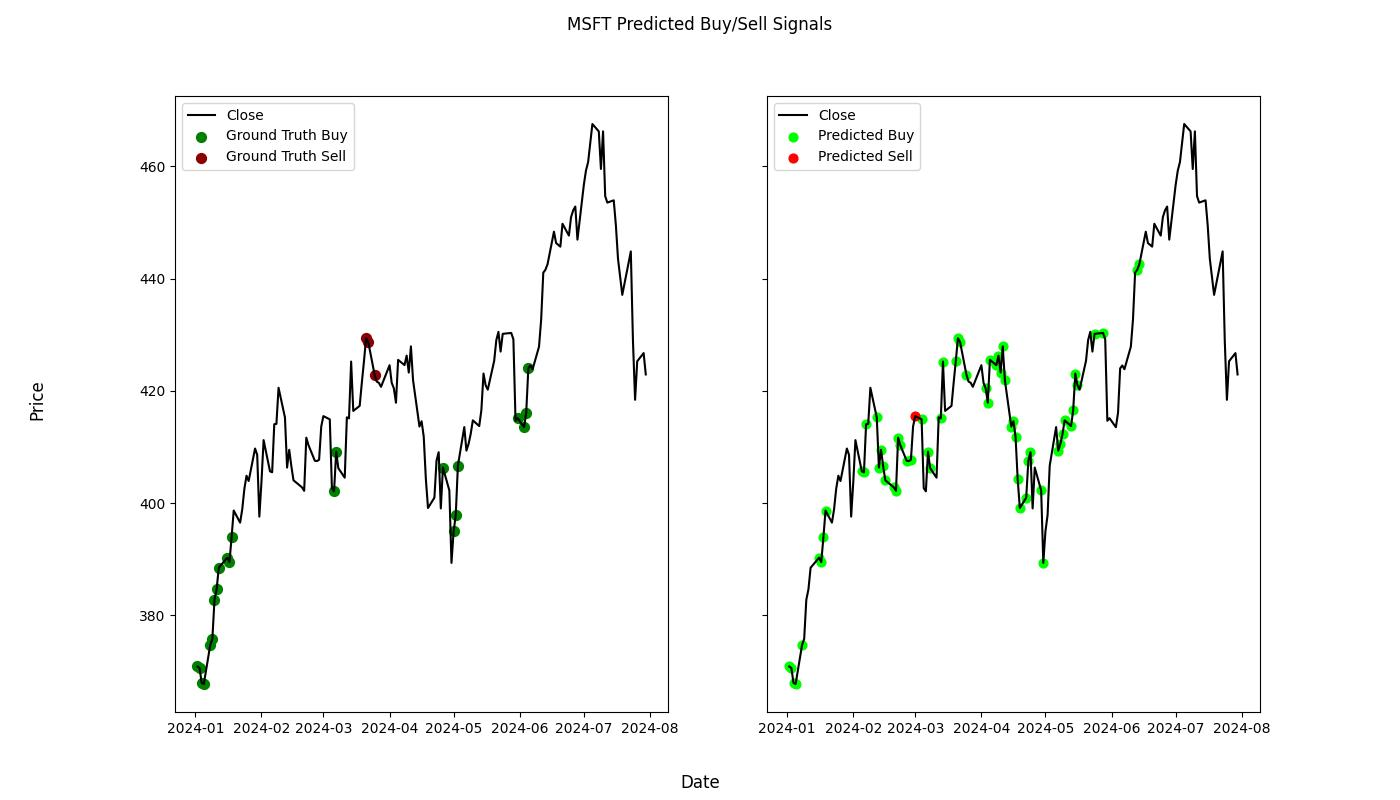
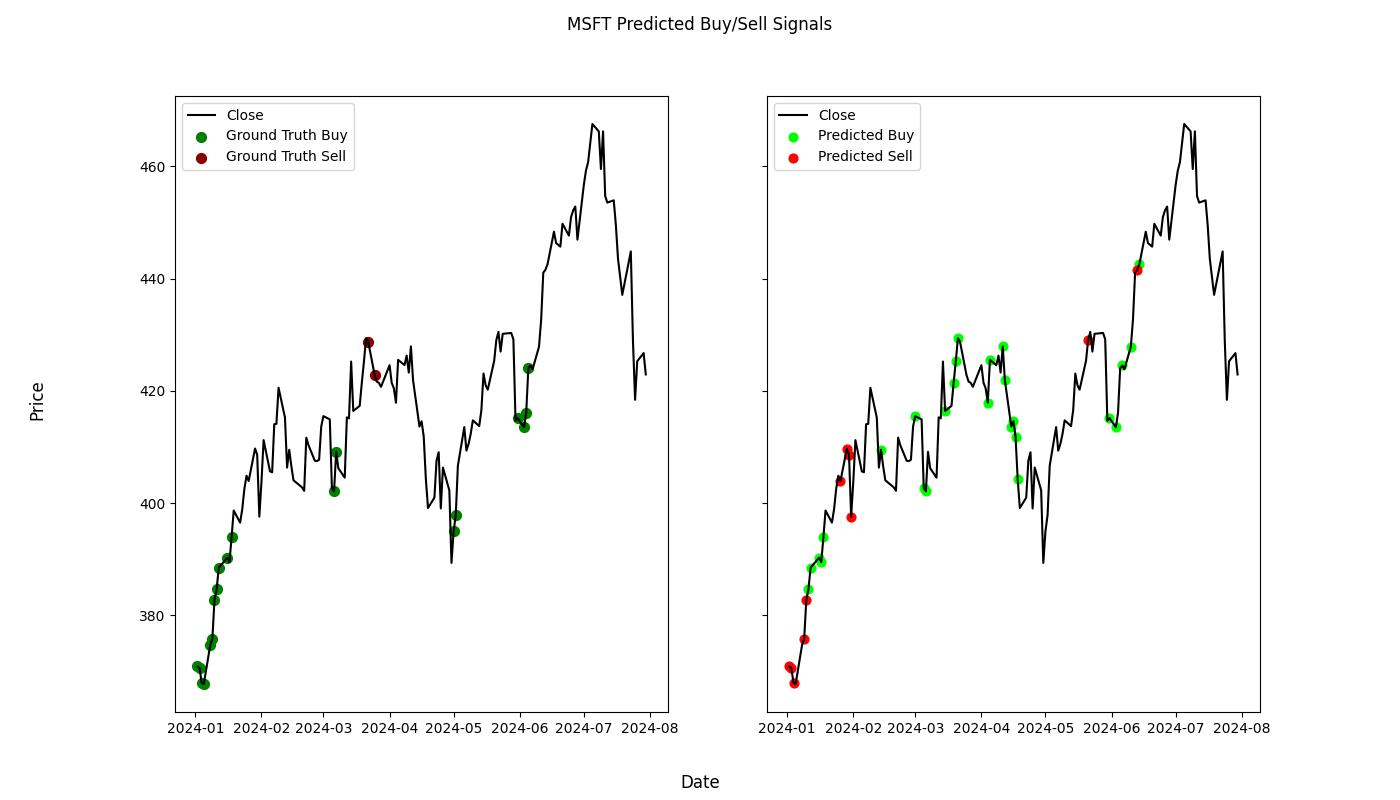
finish training S&P 100 model

diff --git a/train.py b/train.py
@@ -89,9 +89,9 @@ def custom_categorical_crossentropy(y_true, y_pred):
     """
     # weights[i][j]: penalty for if the ground truth was i but the predicted was j.
     weights = tf.constant([
-        [0.0, 2.0, 2.0],
-        [3.0, 0.0, 8.0],
-        [3.0, 8.0, 0.0]
+        [0.0, 3.0, 3.0],
+        [3.0, 0.0, 10.0],
+        [3.0, 10.0, 0.0]
     ])
 
     y_pred = tf.clip_by_value(y_pred, 1e-7, 1.0)
@@ -158,7 +158,7 @@ def get_transformer_model(shape: tuple[int, int], label: str):
     def transformer_block(x, num_heads, key_dim, ff_dim_1, ff_dim_2):
         attn_layer = MultiHeadAttention(
             num_heads=num_heads, key_dim=key_dim,
-            dropout=0.3, kernel_regularizer=L1L2(1e-2, 1e-2), bias_regularizer=L1L2(1e-2, 1e-2))(x, x)
+            dropout=0.2, kernel_regularizer=L1L2(1e-2, 1e-3), bias_regularizer=L1L2(1e-2, 1e-3))(x, x)
         x = Add()([x, attn_layer])
         x = LayerNormalization(epsilon=1e-6)(x)
         ff = Dense(ff_dim_2, activation='sigmoid')(
@@ -229,11 +229,11 @@ if __name__ == '__main__':
             model.compile(
                 optimizer='adam', loss=custom_categorical_crossentropy, metrics=['accuracy'])
 
-        # early_stopping = EarlyStopping(patience=5, restore_best_weights=True)
+        early_stopping = EarlyStopping(patience=10, restore_best_weights=True)
 
         # Train!
-        model.fit(X_train, y_train, epochs=50, batch_size=32,
-                  validation_data=(X_val, y_val))
+        model.fit(X_train, y_train, epochs=50, batch_size=64,
+                  validation_data=(X_val, y_val), callbacks=[early_stopping])
 
         if args.label in ['price', 'price-change']:
             loss_func_str = args.error

diff --git a/common.py b/common.py
@@ -16,7 +16,7 @@ sp_100_tickers = ['AAPL', 'ABBV', 'ABT', 'ACN', 'ADBE', 'AIG', 'AMD', 'AMGN', 'A
                   'SBUX', 'SCHW', 'SO', 'SPG', 'T', 'TGT', 'TMO', 'TMUS', 'TSLA', 'TXN', 'UNH',
                   'UNP', 'UPS', 'USB', 'V', 'VZ', 'WFC', 'WMT', 'XOM']
 mag_7_tickers = ['AAPL', 'AMZN', 'GOOGL', 'META', 'MSFT', 'NVDA', 'TSLA']
-tickers = mag_7_tickers
+tickers = sp_100_tickers
 
 # Number of time points to use in defining sequence data.
 WINDOW_LENGTH = 30
@@ -28,10 +28,10 @@ FUTURE_WINDOW_LENGTH = 30
 ignore_cols = ['Year', 'Month', 'Day', 'Ticker']
 
 # Version folder to save models and plots to.
-VERSION = 'v6'
+VERSION = 'final'
 
 # Slope to use when classifying buy/sell labels.
-buy_sell_slope = 1
+buy_sell_slope = 1.1
 
 
 def buy_sell_label(data: pd.DataFrame, index: int, col: str, mi: float, scale: float):

diff --git a/README.md b/README.md
@@ -22,3 +22,4 @@ Third working model (v4): classification (buy, sell, or do nothing), Transformer
 - Same architecture and normalizing as before, but with classification and softmax activation at the end.
 - Make ground truth labels as buy/sell/do nothing using constrained linear regression: for a some day, compute the best fit line for the next WINDOW_LENGTH days, but constrained such that the line goes through the day's price. Label based on that line's slope.
 - The model is predicts mostly "do nothing" for the 1 day chart, but predicts more buys/sells for the 1 minute chart. Looks like it's very sensitive to the slope thresholds.
+- Finish training on the S&P 100 companies daily data, results are mixed.
